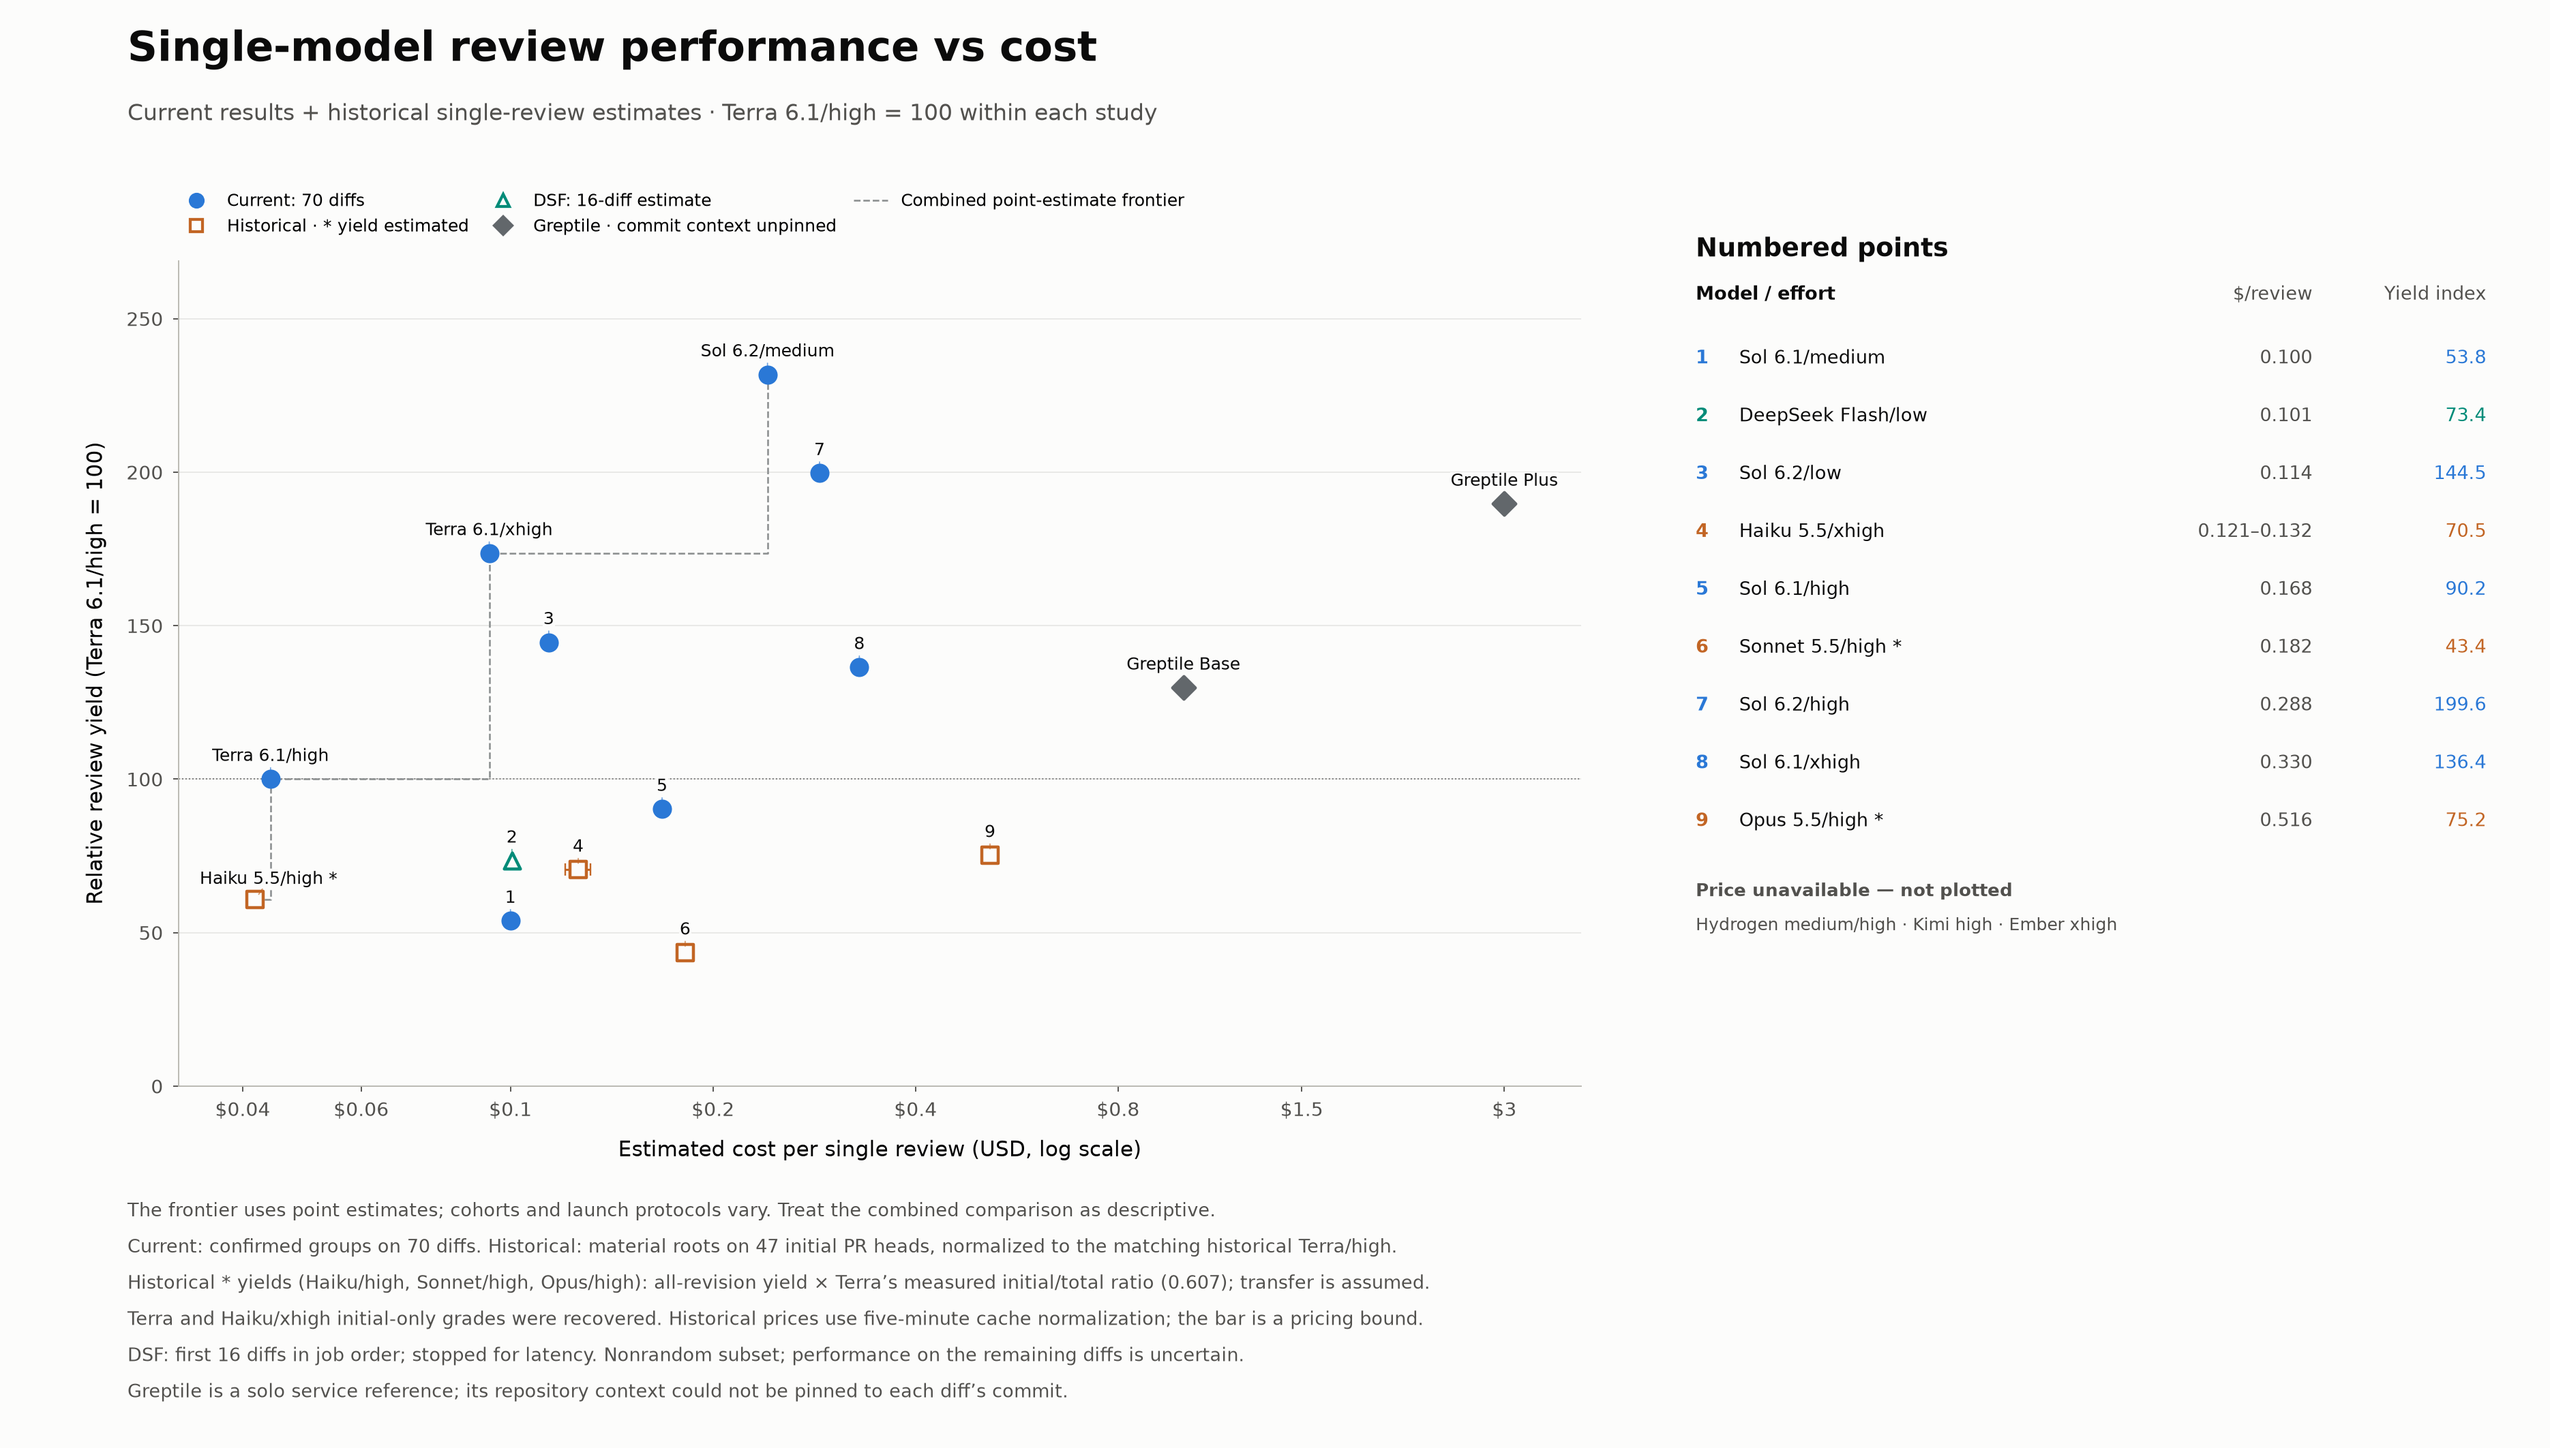
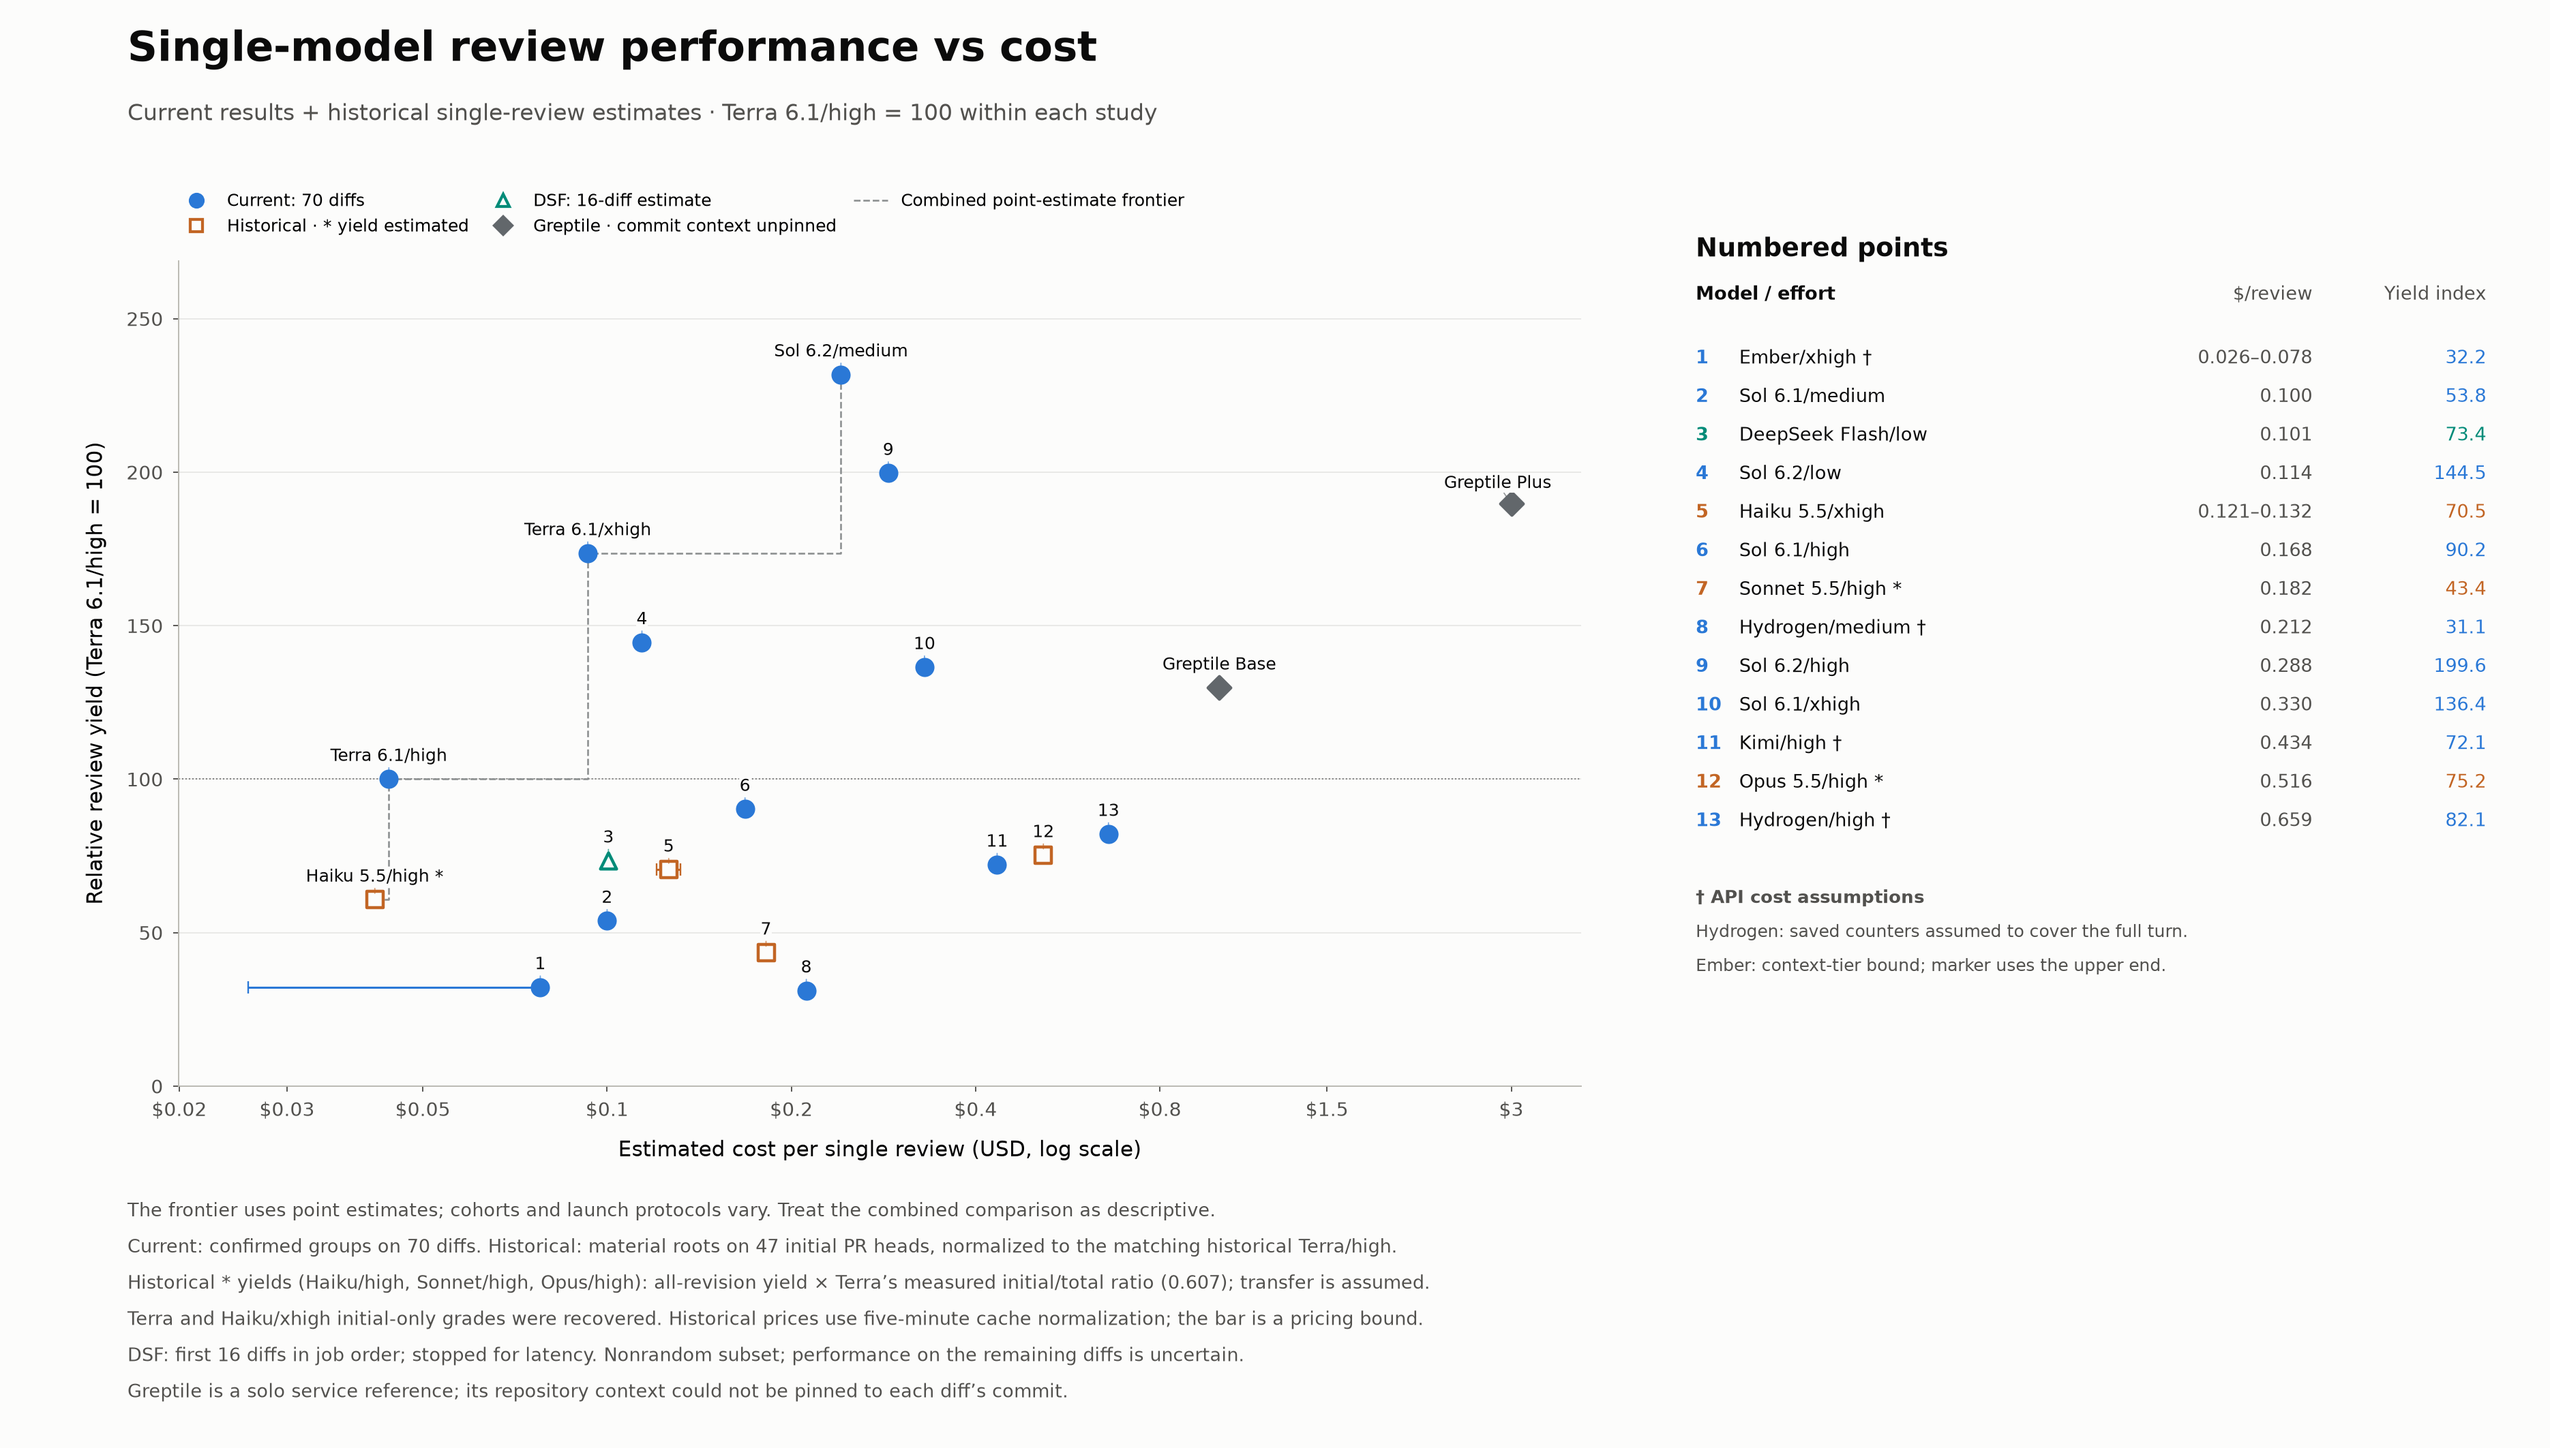
Add Hydrogen Kimi and Ember pricing to the solo review chart

diff --git a/.agents/evals/review-arms/results/sol-62-high/price_additional_models.py b/.agents/evals/review-arms/results/sol-62-high/price_additional_models.py
@@ -1,0 +1,75 @@
+"""Price the retained Hydrogen, Kimi and Ember solo reviews without altering raw data."""
+import collections
+import csv
+import hashlib
+import json
+from pathlib import Path
+from statistics import fmean
+
+ROOT = Path('/mnt/optane/review-arms-20261113')
+CAMPAIGN = ROOT / 'sol-62-high'
+RATES = {
+    'gemini-4-hydrogen': dict(input=1.5, cached_input=.075, output=7.5,
+                            source='https://aistudio.google.com/docs/pricing#gemini-4-hydrogen'),
+    'kimi-code/k3.1-pro': dict(input=2., cached_input=.2, cache_write=2., output=10.,
+                             source='https://platform.kimi.ai/',
+                             caching_source='https://platform.kimi.ai/docs/guide/context-caching'),
+    'muse-ember-1.0': dict(input=.1, cached_input=.004, output=.5,
+                         above_200k_multiplier=3., source='https://dev.meta.ai/models/muse-ember'),
+}
+OPTIONS = {'gemini-4-hydrogen': 'Gemini', 'kimi-code/k3.1-pro': 'Kimi', 'muse-ember-1.0': 'Ember'}
+manifest_path = CAMPAIGN / 'baseline-sessions.json'
+manifest = json.loads(manifest_path.read_text())
+scored = {row['session']: row for row in csv.DictReader((ROOT / 'verify10/sessions.csv').open())}
+selected = [row for row in manifest if row['model'] in RATES]
+assert len(selected) == 280
+by_config = collections.defaultdict(list)
+hashes = []
+for row in selected:
+    path = ROOT / Path(row['output']).with_name('usage.json')
+    hashes.append(hashlib.sha256(path.read_bytes()).hexdigest() + '  ' + str(path.relative_to(ROOT)))
+    saved = json.loads(path.read_text())
+    assert saved['session_id'] == row['child'] and row['child'] in scored
+    assert (scored[row['child']]['model'], scored[row['child']]['effort']) == (row['model'], row['effort'])
+    assert len(saved['turns']) == 1
+    turn = saved['turns'][0]
+    assert turn['outcome'] == {'kind': 'completed', 'stop_reason': 'EndTurn'}
+    assert saved['turn_selections'][turn['command_id']]['model'] == row['model']
+    u = turn['usage']
+    i, o, cr, cw, total = [u[k] for k in ['input_tokens', 'output_tokens', 'cached_read_tokens', 'cached_write_tokens', 'total_tokens']]
+    assert all(isinstance(n, int) and n >= 0 for n in [i, o, cr, cw, total])
+    assert 0 <= u.get('thought_tokens', 0) <= o
+    # Saved Hydrogen reports predate the adapter's scope normalization. The chart
+    # explicitly assumes these prompt-response counters cover the completed turn.
+    if row['model'] == 'gemini-4-hydrogen':
+        assert u['scope'] in {'unspecified', 'turn'} and i + o + cr + cw == total and cw == 0
+        fresh = i
+    else:
+        assert u['scope'] == 'turn' and i + o == total and i >= cr + cw
+        fresh = i - cr - cw
+    rates = RATES[row['model']]
+    if row['model'] == 'muse-ember-1.0':
+        assert cw == 0  # No published separate write tariff is needed for these captures.
+    cost = (fresh * rates['input'] + cr * rates['cached_input'] +
+            cw * rates.get('cache_write', 0) + o * rates['output']) / 1_000_000
+    by_config[row['model'], row['effort']].append(dict(bug=row['bug'], cost=cost, scope=u['scope'],
+                                                      fresh_input=fresh, output=o, cached_input=cr, cache_write=cw))
+result = dict(round='verify10', rates_verified_utc='2026-11-25', units='USD per million tokens', rates=RATES,
+              interpretation='Estimated standard API equivalent, not subscription spend. Output already includes thinking.',
+              source_manifest_sha256=hashlib.sha256(manifest_path.read_bytes()).hexdigest(), options={})
+for (model, effort), rows in sorted(by_config.items()):
+    assert len(rows) == len({row['bug'] for row in rows}) == 70
+    low = fmean(row['cost'] for row in rows)
+    high = low * RATES[model].get('above_200k_multiplier', 1.)
+    note = ('Context-tier bound: all tokens below 200k vs all above; marker uses conservative upper endpoint. '
+            'Per-request context sizes were not retained.' if model == 'muse-ember-1.0' else
+            'Assumes the saved unspecified-scope prompt-response counters cover the full turn.' if model == 'gemini-4-hydrogen' else
+            'Complete turn counters; five-minute API cache-write tariff, mutually exclusive input categories.')
+    result['options'][OPTIONS[model] + '/' + effort] = dict(
+        reviews=70, diffs=70, cost_low=low, cost_high=high, cost=high,
+        usage_scope_counts=dict(collections.Counter(row['scope'] for row in rows)),
+        mean_tokens={key: fmean(row[key] for row in rows) for key in ['fresh_input', 'output', 'cached_input', 'cache_write']},
+        cost_note=note, pricing_source=RATES[model]['source'])
+(CAMPAIGN / 'additional-model-prices.json').write_text(json.dumps(result, indent=2) + '\n')
+(CAMPAIGN / 'additional-pricing-inputs.sha256').write_text('\n'.join(sorted(hashes)) + '\n')
+print(json.dumps(result['options'], indent=2))

diff --git a/.agents/evals/review-arms/results/sol-62-high/README.md b/.agents/evals/review-arms/results/sol-62-high/README.md
@@ -83,8 +83,49 @@ where the earlier run stopped for latency. Its yield is recalibrated using the
 same eight matched controls with fresh `verify10` group labels; its workload
 cost estimate is unchanged. Transfer to the remaining 54 diffs is unmeasured.
 Greptile is a solo service reference; repository context could not be pinned
-to each diff commit, and it is excluded from the model frontier. Hydrogen,
-Kimi and Ember still lack prices and are not plotted on this cost chart.
+to each diff commit, and it is excluded from the model frontier. Hydrogen, Kimi and Ember now use a separate
+[API pricing overlay](additional-model-prices.json); the original scored and
+Pareto CSVs stay frozen. DSF/medium remains unplotted as requested.
+
+### Newly priced models
+
+Verified on 2026-11-25, in USD per million tokens:
+
+| Model | Fresh input | Cached input | Output | Estimated mean cost per review |
+|---|---:|---:|---:|---:|
+| Hydrogen/medium | $1.50 | $0.075 | $7.50 | $0.212 |
+| Hydrogen/high | $1.50 | $0.075 | $7.50 | $0.659 |
+| Kimi K3.1 Pro/high | $2.00 | $0.20 | $10.00 | $0.434 |
+| Ember/xhigh, under 200k context | $0.10 | $0.004 | $0.50 | $0.026 lower bound |
+| Ember/xhigh, over 200k context | $0.30 | $0.012 | $1.50 | $0.078 upper bound |
+
+Sources: [Google standard Hydrogen pricing](https://aistudio.google.com/docs/pricing#gemini-4-hydrogen),
+[Moonshot's model rates](https://platform.kimi.ai/),
+[Moonshot cache accounting](https://platform.kimi.ai/docs/guide/context-caching),
+and [Meta Ember pricing](https://dev.meta.ai/models/muse-ember).
+
+[price_additional_models.py](price_additional_models.py) reconstructs all four
+70-diff cost estimates from the exact 280 retained reviewer usage captures.
+Cached reads are billed separately from fresh input. Output already includes
+thinking, so thought tokens are not added a second time. Kimi input includes
+cache reads/writes; Hydrogen input excludes them. The Kimi five-minute write
+rate is $2/M, replacing rather than adding to the fresh-input category; all
+saved write counters are zero. API equivalents exclude setup, judging, taxes,
+subscription fees and differences in service-specific billing.
+
+The newly priced models carry `†` in the key or direct label. All 140 Hydrogen
+captures have `scope=unspecified`: the chart **assumes** these completed-prompt
+reports are whole-turn counters, following their additive accounting form;
+that scope was not established for these historical sessions. These prices
+are conditional estimates, not certified full-turn spend. All 70 Kimi and 70
+Ember captures explicitly report complete turns.
+
+Ember's request-level context sizes were not retained. Its whisker therefore
+runs from pricing all observed tokens at the under-200k rate to pricing all
+at the over-200k rate. Its marker uses the **upper endpoint**, not an invented
+context mix. This is a tariff bound, not a confidence interval. Frontier names
+and the dashed line use that conservative Ember price and Hydrogen's stated
+scope assumption; uncertain costs could change actual frontier membership.
 
 ## Collection and judging
 
